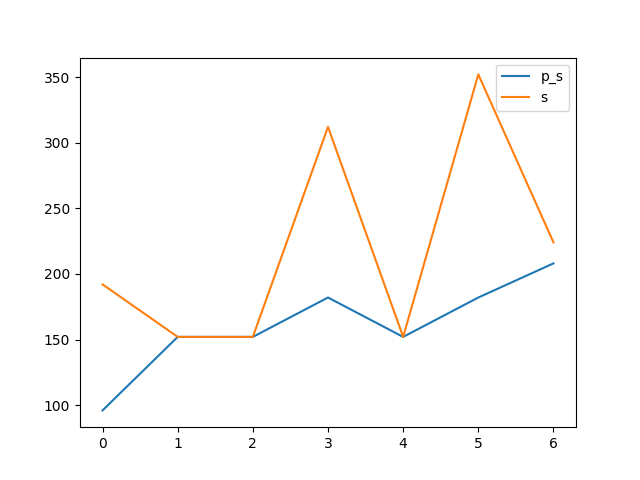
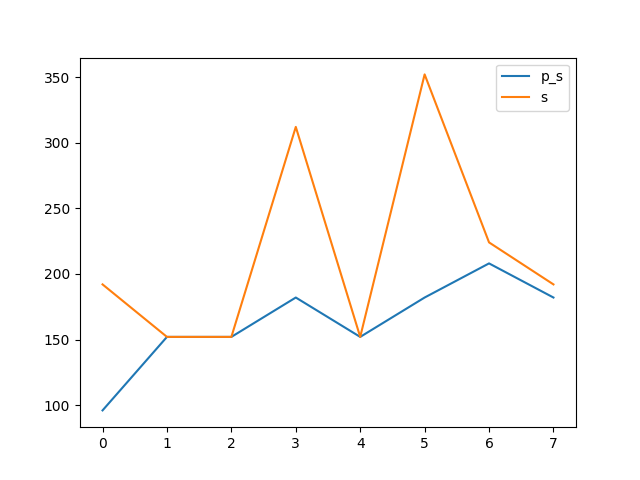
0x0007

diff --git a/benchmark.md b/benchmark.md
@@ -12,14 +12,15 @@ Synthesising 0x0003 pexact:182 r=4 exact:312 r=4
 Synthesising 0x0004 pexact:152 r=3 exact:152 r=3
 Synthesising 0x0005 pexact:182 r=4 exact:352 r=4
 Synthesising 0x0006 pexact:208 r=4 exact:224 r=3
+Synthesising 0x0007 pexact:182 r=4 exact:192 r=3
 
 ```mermaid
 xychart-beta
     title "Comparison powertwoexact twoexact"
-    x-axis [0, 1, 2, 3, 4, 5, 6]
+    x-axis [0, 1, 2, 3, 4, 5, 6, 7]
     y-axis "Switching Activity" 0-->352
-    line [96, 152, 152, 182, 152, 182, 208]
-    line [192, 152, 152, 312, 152, 352, 224]
-    line [160.57142857142858, 160.57142857142858, 160.57142857142858, 160.57142857142858, 160.57142857142858, 160.57142857142858, 160.57142857142858]
-    line [219.42857142857142, 219.42857142857142, 219.42857142857142, 219.42857142857142, 219.42857142857142, 219.42857142857142, 219.42857142857142]
+    line [96, 152, 152, 182, 152, 182, 208, 182]
+    line [192, 152, 152, 312, 152, 352, 224, 192]
+    line [163.25, 163.25, 163.25, 163.25, 163.25, 163.25, 163.25, 163.25]
+    line [216.0, 216.0, 216.0, 216.0, 216.0, 216.0, 216.0, 216.0]
 ```
